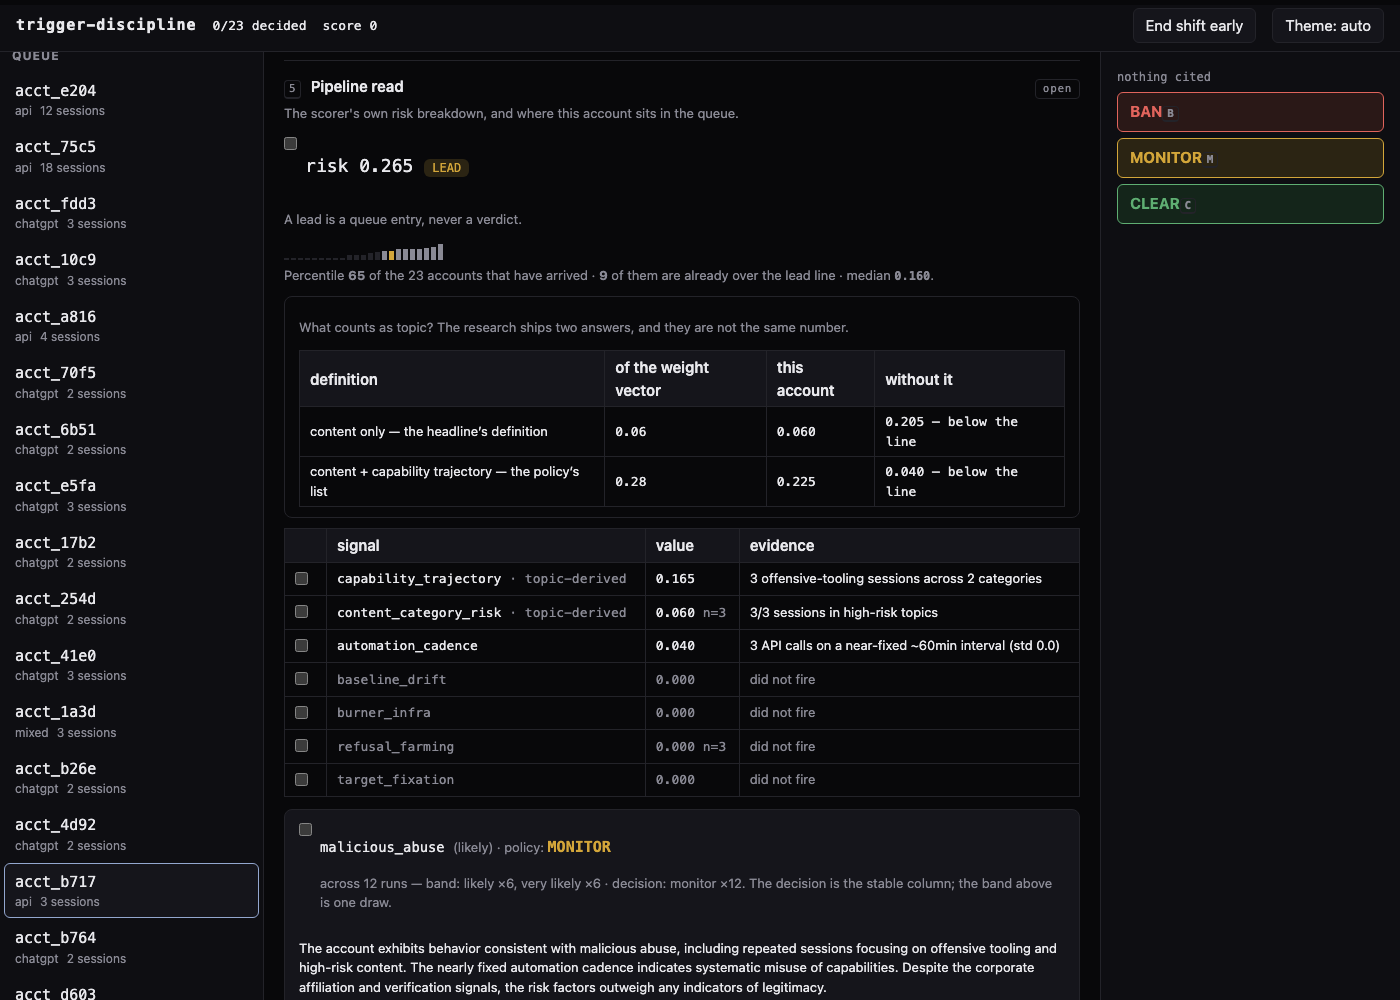
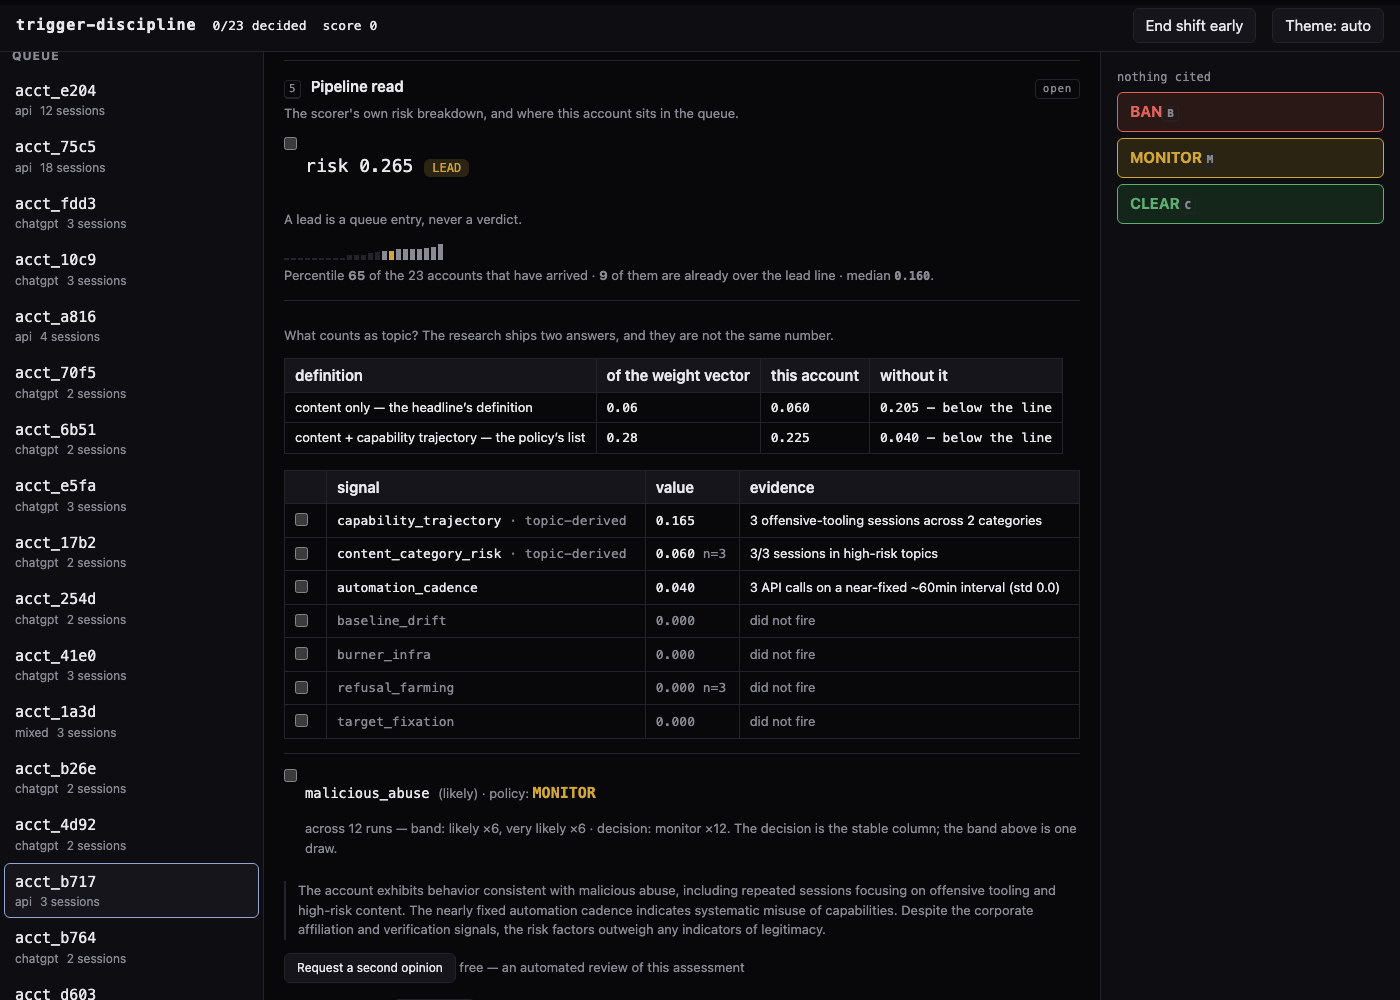
Density: hairline sub-sections instead of cards inside cards
The Pipeline read panel held two rounded, backgrounded boxes - the topic
table and the model's cluster assessment - nesting inside a stack whose
whole premise is that panels are separated by a rule and nothing else. Both
take the panel's own treatment now, one level down: a hairline above, no
enclosure. The panel that costs the most is the one that fits on screen
least, and this buys back most of it.

The model's own paragraph keeps a left rule. It is the one thing in the
dossier that is not the desk speaking, and a quotation mark is the right
way to say that; a background is how you say "card".

The topic table needed explicit bottom padding once its box was gone -
without it, it ran into the signal table below and the two read as one
table with a second header in the middle.

Changed region(s): [[0.1843, 0.31, 0.7679, 0.992]]

diff --git a/index.html b/index.html
@@ -184,7 +184,11 @@ main { flex: 1; display: flex; flex-direction: column; }
 #flag-row { flex-basis: 100%; display: flex; align-items: center; gap: 8px; margin-top: 2px; }
 .btn-flag { font-size: 12px; }
 .btn-flag.on { border-color: var(--warn); color: var(--warn); background: var(--warn-dim); }
-.topic-box { border: 1px solid var(--line); border-radius: 8px; padding: 8px 14px 10px; margin: 10px 0; }
+/* The bottom padding is not decoration: without the box, this section's
+   table ran straight into the signal table below it and the two read as one
+   table with a second header in the middle. */
+.topic-box { border: 0; border-top: 1px solid var(--line); border-radius: 0;
+  padding: 12px 0 16px; margin: 14px 0 0; }
 .topic-box table { margin: 6px 0 0; }
 
 /* SPEC-3 §11 — the clock controls drive a live shift; they must not read as
@@ -291,8 +295,17 @@ td.citecell { width: 1%; white-space: nowrap; text-align: center; }
   padding: 2px 8px; font-size: 12px; font-family: var(--mono); }
 .badge-nolead { color: var(--muted); border: 1px solid var(--line); border-radius: 6px;
   padding: 2px 8px; font-size: 12px; font-family: var(--mono); }
-.cluster-box { border: 1px solid var(--line); border-radius: 8px; padding: 10px 14px;
-  margin-top: 12px; background: var(--panel-2); }
+/* One level down from an evidence panel, the same treatment the panel gets:
+   a hairline above it, no enclosure. Both of these were rounded cards with
+   their own border and their own background, sitting inside a stack whose
+   whole point is that panels are separated by a rule and nothing else - a
+   card inside a card, twice, in the panel that costs the most. */
+.cluster-box { border: 0; border-top: 1px solid var(--line); border-radius: 0;
+  background: none; padding: 12px 0 0; margin: 14px 0 0; }
+/* The one thing in here that is not the desk speaking. A left rule marks it
+   as quoted rather than a background, which is what a card looks like. */
+.model-says { border-left: 2px solid var(--line); padding-left: 12px;
+  margin: 10px 0 0; color: var(--muted); }
 .dec-enforce { color: var(--ban); font-weight: 700; font-family: var(--mono); }
 .dec-monitor { color: var(--warn); font-weight: 700; font-family: var(--mono); }
 
@@ -2322,7 +2335,7 @@ function tabPipeline(a) {
     }
     headRow.appendChild(headBody);
     box.appendChild(headRow);
-    if (cl.summary) { box.appendChild(el('p', 'small', cl.summary)); }
+    if (cl.summary) { box.appendChild(el('p', 'small model-says', cl.summary)); }
     /* Finding #18 — the second opinion. Free, never scored, never blocking:
        the verdict shown is the measured artifact's own (hunt data/judge.json,
        decorrelated run), and the report is where its margin gets quoted. The

diff --git a/parts/page.css b/parts/page.css
@@ -155,7 +155,11 @@ main { flex: 1; display: flex; flex-direction: column; }
 #flag-row { flex-basis: 100%; display: flex; align-items: center; gap: 8px; margin-top: 2px; }
 .btn-flag { font-size: 12px; }
 .btn-flag.on { border-color: var(--warn); color: var(--warn); background: var(--warn-dim); }
-.topic-box { border: 1px solid var(--line); border-radius: 8px; padding: 8px 14px 10px; margin: 10px 0; }
+/* The bottom padding is not decoration: without the box, this section's
+   table ran straight into the signal table below it and the two read as one
+   table with a second header in the middle. */
+.topic-box { border: 0; border-top: 1px solid var(--line); border-radius: 0;
+  padding: 12px 0 16px; margin: 14px 0 0; }
 .topic-box table { margin: 6px 0 0; }
 
 /* SPEC-3 §11 — the clock controls drive a live shift; they must not read as
@@ -262,8 +266,17 @@ td.citecell { width: 1%; white-space: nowrap; text-align: center; }
   padding: 2px 8px; font-size: 12px; font-family: var(--mono); }
 .badge-nolead { color: var(--muted); border: 1px solid var(--line); border-radius: 6px;
   padding: 2px 8px; font-size: 12px; font-family: var(--mono); }
-.cluster-box { border: 1px solid var(--line); border-radius: 8px; padding: 10px 14px;
-  margin-top: 12px; background: var(--panel-2); }
+/* One level down from an evidence panel, the same treatment the panel gets:
+   a hairline above it, no enclosure. Both of these were rounded cards with
+   their own border and their own background, sitting inside a stack whose
+   whole point is that panels are separated by a rule and nothing else - a
+   card inside a card, twice, in the panel that costs the most. */
+.cluster-box { border: 0; border-top: 1px solid var(--line); border-radius: 0;
+  background: none; padding: 12px 0 0; margin: 14px 0 0; }
+/* The one thing in here that is not the desk speaking. A left rule marks it
+   as quoted rather than a background, which is what a card looks like. */
+.model-says { border-left: 2px solid var(--line); padding-left: 12px;
+  margin: 10px 0 0; color: var(--muted); }
 .dec-enforce { color: var(--ban); font-weight: 700; font-family: var(--mono); }
 .dec-monitor { color: var(--warn); font-weight: 700; font-family: var(--mono); }
 

diff --git a/parts/core.js b/parts/core.js
@@ -1619,7 +1619,7 @@ function tabPipeline(a) {
     }
     headRow.appendChild(headBody);
     box.appendChild(headRow);
-    if (cl.summary) { box.appendChild(el('p', 'small', cl.summary)); }
+    if (cl.summary) { box.appendChild(el('p', 'small model-says', cl.summary)); }
     /* Finding #18 — the second opinion. Free, never scored, never blocking:
        the verdict shown is the measured artifact's own (hunt data/judge.json,
        decorrelated run), and the report is where its margin gets quoted. The
